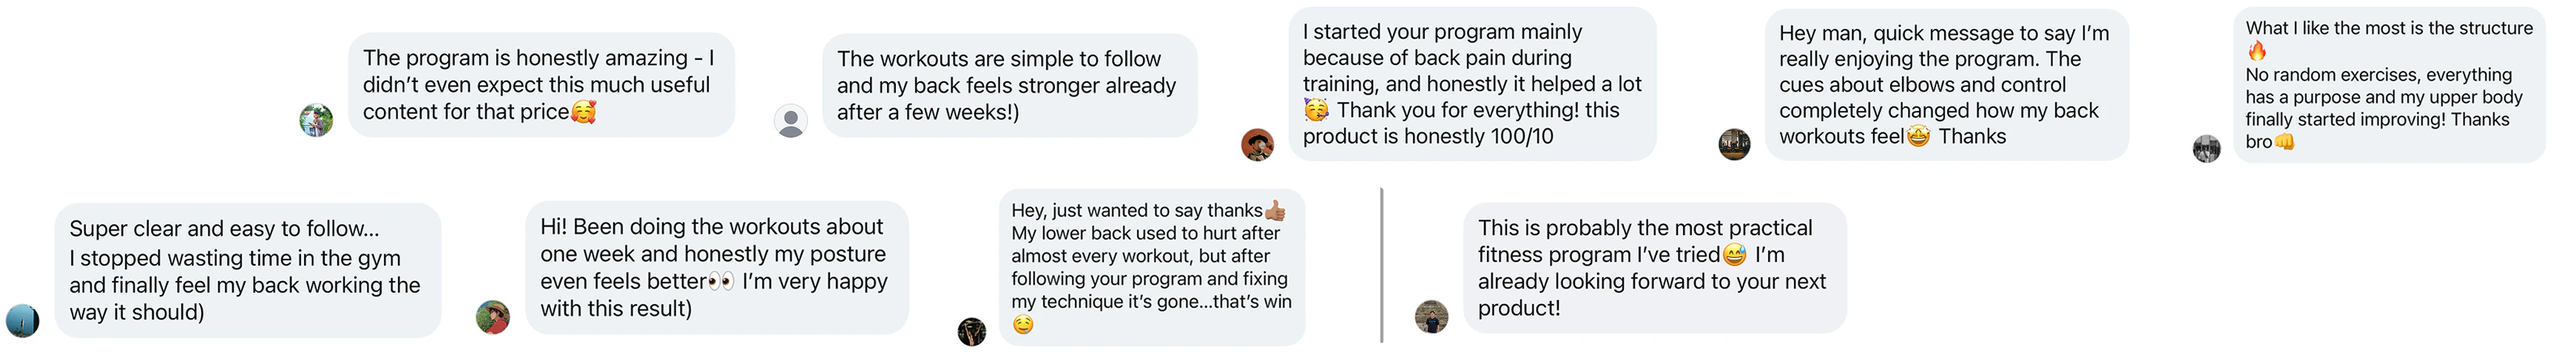
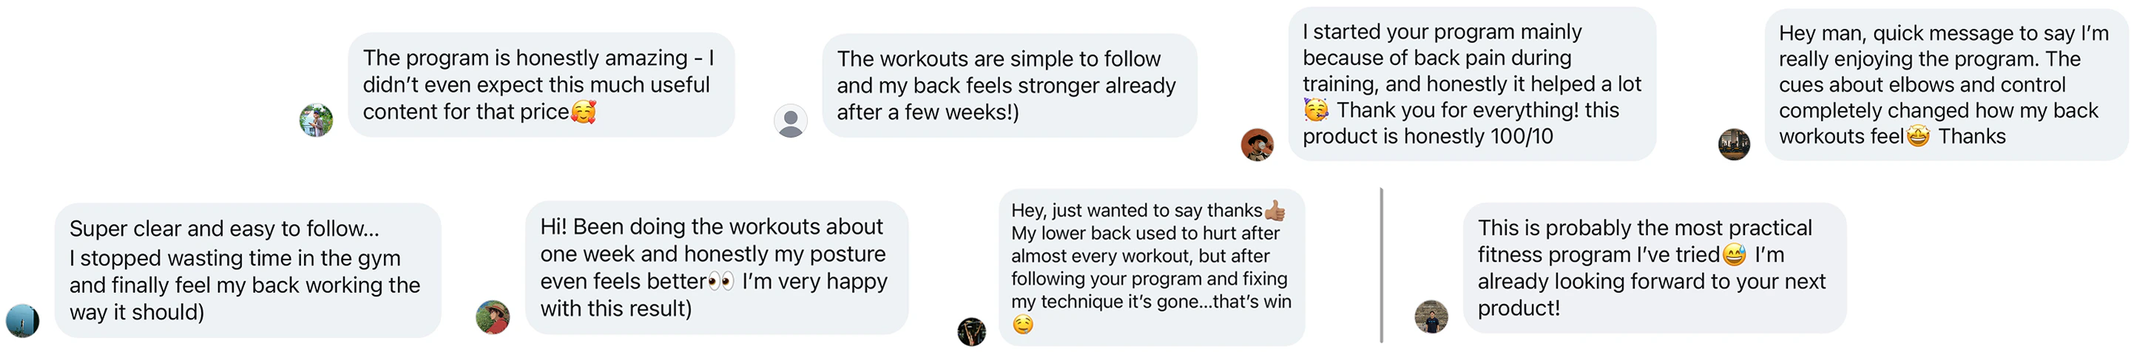
fddf

diff --git a/index.html b/index.html
@@ -222,7 +222,7 @@
         
         <div class="card-v11x card-left-v11x">
             <div class="top-tab-left-v11x">1-on-1 session</div>
-            <h2 class="price-left-v11x">$600</h2>
+            <p class="price-left-v11x">$600</p>
             <div class="sub-price-v11x">/ month</div>
             
             <div class="card-divider-v11x"></div>
@@ -254,7 +254,7 @@
 
         <div class="card-v11x card-right-v11x">
             <div class="top-tab-right-v11x">MY PROGRAM</div>
-            <h2 class="price-right-v11x">$15</h2>
+            <p class="price-right-v11x">$15</p>
             <div class="sub-price-v11x">/ month</div>
             
             <div class="card-divider-v11x"></div>

diff --git a/css/main.css b/css/main.css
@@ -669,7 +669,6 @@ margin: auto;
 }
 
 .price-left-v11x {
-    font-family: 'Antonio', sans-serif;
     font-weight: 700;
     font-size: 32px;
     text-align: center;
@@ -698,7 +697,6 @@ margin: auto;
 }
 
 .price-right-v11x {
-    font-family: 'Antonio', sans-serif;
     font-weight: 700;
     font-size: 32px;
     text-align: center;
@@ -859,7 +857,7 @@ margin: auto;
 
 /* Інлайн корекції для перевикористаних класів */
 .custom-timer-text-v11x {
-    font-weight: 700; 
+    font-weight: 600; 
     font-size: 13px; 
     color: #fff; 
     line-height: 140%;
